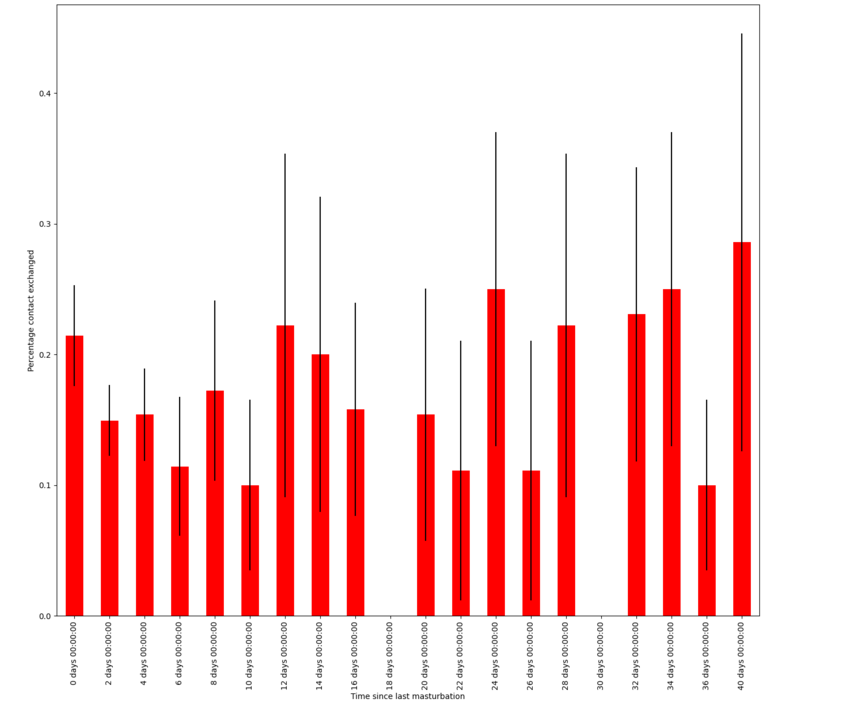
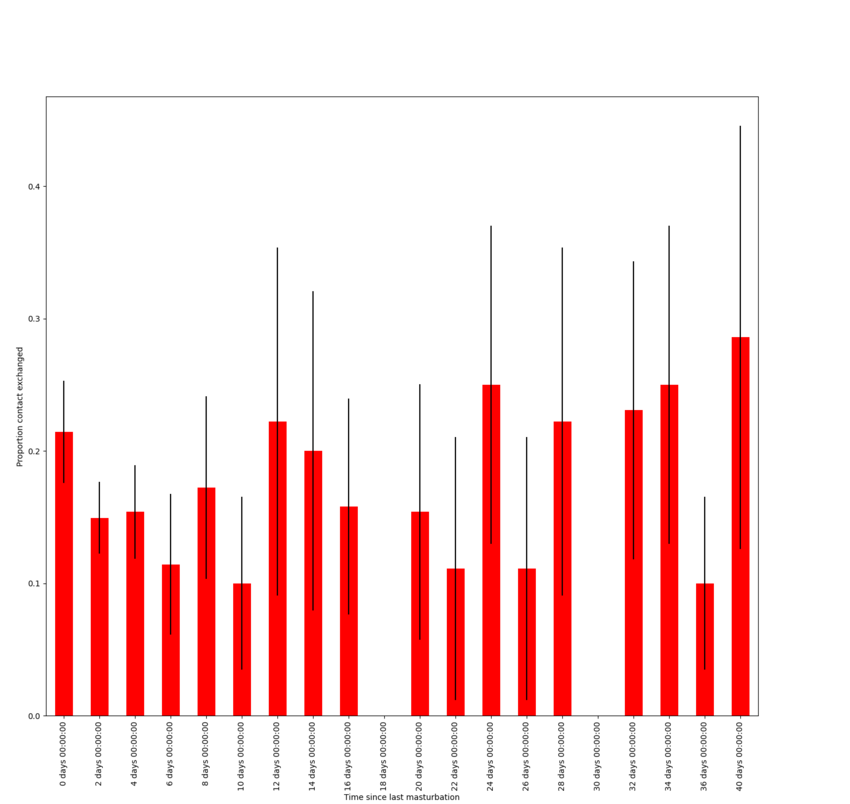
Note on vascular tension and attractiveness, better squiggle dg model.

diff --git a/code/vascular/analysis.py b/code/vascular/analysis.py
@@ -1,0 +1,42 @@
+import pandas as pd
+import numpy as np
+import matplotlib.pyplot as plt
+
+def get_meditations():
+        meditations=pd.read_csv('../../data/meditations.csv')
+        meditations['meditation_start']=pd.to_datetime(meditations['meditation_start'], utc=True, format='mixed')
+        meditations['meditation_end']=pd.to_datetime(meditations['meditation_end'], utc=True, format='mixed')
+
+        return meditations
+
+hourseconds=60*60
+rounder=hourseconds
+timeframe=7 #days
+
+approaches=pd.read_csv('../../data/daygame_approaches.csv')
+approaches['Datetime']=pd.to_datetime(approaches['Datetime'], utc=True).dt.tz_convert('CET')
+
+meditations=get_meditations()
+
+# I feel like this should be doable with merge_asof, but it doesn't look like it?
+merged=pd.merge(meditations, approaches, how='cross')
+merged['diff']=merged['Datetime']-merged['meditation_end']
+merged=merged.loc[(merged['diff']<=pd.Timedelta(timeframe, 'd')) & (merged['diff']>=pd.Timedelta(0, 's'))]
+
+summed=merged[['Approach', 'meditation_duration']].groupby('Approach').sum()
+
+both=pd.merge(approaches, summed, on='Approach')
+both['Rounded']=(both['meditation_duration']/(rounder)).round()
+both['Contactind']=both['Contact'].notna()
+
+result=both[['Rounded', 'Contactind']].groupby('Rounded').agg(['mean', 'size'])
+
+def betavar(group):
+	a=group.sum()
+	b=(~group).sum()
+	return np.sqrt((a*b)/((a+b)**2*(a+b+1)))
+
+result['std']=both[['Rounded', 'Contactind']].groupby('Rounded').agg(betavar).rename(columns={'Contactind': 'std'})
+result['Contactind']['mean'].plot.bar(yerr=result['std'], rot=90, figsize=(11, 9),
+        xlabel='Hours of meditation in the last week', ylabel='Proportion contact exchanged', color='red')
+plt.savefig('errorbars.png')

diff --git a/code/masturbation_and_attractiveness/observational.py b/code/masturbation_and_attractiveness/observational.py
@@ -33,5 +33,5 @@ result['std']=both[['Rounded', 'Contactind']].groupby('Rounded').agg(betavar).re
 
 #TODO: add sample size, also x-axis is slightly artefacted
 result['Contactind']['mean'].plot.bar(yerr=result['std'], rot=90, figsize=(16, 14),
-	xlabel='Time since last masturbation', ylabel='Percentage contact exchanged', color='red')
+	xlabel='Time since last masturbation', ylabel='Proportion contact exchanged', color='red')
 plt.savefig('errorbars.png')

diff --git a/notes_on_pickup.md b/notes_on_pickup.md
@@ -373,11 +373,10 @@ a difference to my momentum. More work than psychedelics, but
 [safer](./reports.html#Possible_Erectile_Dysfunction_from_an_LSD_Trip),
 and possibly deeper.
 
-It seems worth noting that I didn't see a difference in the success of
-my approaches (in terms of objective results like bringing a chick out
-on a date, or fucking her), so take all of this with a grain of salt.
-
-<!--TODO: analyse meditation & pickup success data-->
+It seems worth noting that I [didn't see a
+difference](#Vascular_Tension_and_Attractiveness) in the success of my
+approaches (in terms of objective results like bringing a chick out on
+a date, or fucking her), so take all of this with a grain of salt.
 
 <!--
 If You Want To Fuck Hot Chicks, You Have To Approach Them
@@ -514,3 +513,86 @@ ones by [Nash](http://www.daysofgame.com/).
 * [Why a guy should never marry, as described by women (2017)](https://theredquest.wordpress.com/2017/10/26/why-you-should-never-marry-as-described-by-women/)
 * [Skin in the game, marriage, The Red Pill (2018)](https://theredquest.wordpress.com/2018/03/30/skin-in-the-game-marriage-the-red-pill/)
 * [“Why Happy Couples Cheat” from Esther Perel (2017)](https://theredquest.wordpress.com/2017/05/08/why-happy-couples-cheat-from-esther-perel/)
+
+Vascular Tension and Attractiveness
+------------------------------------
+
+Men like to create theories on what they should do in order to become
+attractive to women. One of those theories is that muscular tension
+is *unattractive*: It indicates that a man is hiding his intentions,
+trying to evade from hostile telepaths (because he believes that, if his
+intentions were known, he'd be shunned).<!--TODO: link to Chris Lakins
+writing on this, and the hostile telepaths stuff-->
+
+I think I can look into a related hypothesis, namely whether *meditation*
+increases success from cold approaching women. The hypothesis is that
+meditation decreases muscular tension, thus indicating that the approacher
+doesn't have anything to hide, especially not his desire.
+
+Given my [meditation data](./data.html#Meditation) (~2.7k meditation
+sessions) and my [daygame approach data](./data.html#Daygame) (~650
+approaches), I can select the meditations that occurred in the week
+before an approach
+
+        merged=pd.merge(meditations, approaches, how='cross')
+        merged['diff']=merged['Datetime']-merged['meditation_end']
+        merged=merged.loc[(merged['diff']<=pd.Timedelta(timeframe, 'd')) & (merged['diff']>=pd.Timedelta(0, 's'))]
+
+sum up the amount of meditation done in that week
+
+        summed=merged[['Approach', 'meditation_duration']].groupby('Approach').sum()
+
+and round the amount of meditation done to the nearest hour, calculating
+whether the approach resulted in me getting some kind of contact
+information from the woman:
+
+        both=pd.merge(approaches, summed, on='Approach')
+        both['Rounded']=(both['meditation_duration']/(rounder)).round()
+        both['Contactind']=both['Contact'].notna()
+
+The result is then a dataframe indexed by the number of hours meditated,
+with the expected number of times of getting a contact information,
+plus the sample size:
+
+        result=both[['Rounded', 'Contactind']].groupby('Rounded').agg(['mean', 'size'])
+
+(Throw in some
+[beta-distributed](https://en.wikipedia.org/wiki/Beta-distribution)
+error bars, [code here](./code/vascular/analysis.py).)
+
+Plotting the results:
+
+![](./img/vascular/errorbars.png)
+
+The resulting DataFrame is:
+
+        >>> result
+                Contactind            std
+                      mean size
+        Rounded
+        0.0       0.250000   28  0.080408
+        1.0       0.136364   44  0.051157
+        2.0       0.151515   33  0.061491
+        3.0       0.112245   98  0.031726
+        4.0       0.357143   14  0.123718
+        5.0       0.200000   15  0.100000
+        6.0       0.146667   75  0.040581
+        7.0       0.315789   19  0.103939
+        8.0       0.000000    8  0.000000
+        9.0       0.200000   30  0.071842
+        10.0      0.157895   38  0.058389
+        11.0      0.179487   39  0.060678
+        12.0      0.189655   58  0.051038
+        13.0      0.130435   92  0.034923
+        14.0      0.181818   11  0.111340
+        21.0      0.000000    1  0.000000
+        22.0      0.333333    3  0.235702
+        23.0      0.000000    3  0.000000
+        29.0      0.500000    2  0.288675
+        37.0      0.000000    3  0.000000
+
+I'll basically ignore anything north of 14 hours, because the sample
+sizes are just too damn small. If I do that, then I don't immediately
+*see* any clear pattern. It's not like meditating a bunch (~2h/day)
+causes more women to give me their contact information, and if anything
+the opposite seems to be the case.

diff --git a/changelog.md b/changelog.md
@@ -28,6 +28,7 @@ February 2025
 
 * [Forager Society is a Disease of the Flesh, Industrial Society is a Disease of the Soul](./notes.html#Forager_Society_is_a_Disease_of_the_Flesh_Industrial_Society_is_a_Disease_of_the_Soul)
 * [Least Likely Completions for Language Models](./notes.html#Least_Likely_Completions_for_Language_Models)
+* [Vascular Tension and Attractiveness](./notes_on_pickup.html#Vascular_Tension_and_Attractiveness): Does meditating make one more attractive? Probably not.
 * [Analysis of Observational Data](./masturbation_and_attractiveness.html#Appendix_D_Analysis_of_Observational_Data) on whether abstaining from masturbation makes one more attractive. Result: probably not.
 * Updated [Does Recent Masturbation Decrease Meditation Quality?](./quality.html) with improved analysis & data, result: Abstaining from masturbation probably makes meditation worse.
 * [Daygame Data Makeover](./data.html#Daygame)
@@ -37,6 +38,10 @@ February 2025
 * [Lemurs and the True Human Form (Gwenn, 2020)](https://web.archive.org/web/20221230045903/https://everythingtosaveit.how/lemurs-and-the-true-human-form/)
 * [Expiring laws to stop legal rot (Sam Harsimony, 2024)](https://splittinginfinity.substack.com/p/expiring-laws-to-stop-legal-rot)
 * [Passive measures for lazy self-experimenters (troof, 2022)](https://troof.blog/posts/passive-measures/)
+* Some cool short Wikipedia articles:
+	* [Blum–Shub–Smale machine (English Wikipedia)](https://en.wikipedia.org/wiki/Blum-Shub-Smale_machine) for [Real computation (English Wikipedia)](https://en.wikipedia.org/wiki/Real_computation)
+	* [Ropelength (English Wikipedia)](https://en.wikipedia.org/wiki/Ropelength)
+	* [Vibratese (English Wikipedia)](https://en.wikipedia.org/wiki/Vibratese)
 
 January 2025
 -------------

diff --git a/texts_list.md b/texts_list.md
@@ -17,6 +17,7 @@ comments or tweets, because that would be too extensive.
 A '\*' prefix signifies I'm still reading the
 text, a '|123' prefix shows I abandoned reading the text at page 123.
 
+* [Superradiant laser (English Wikipedia, 2023)](https://en.wikipedia.org/wiki/Superradiant_laser)
 * [Absolutely Nobody (English Wikipedia, 2023)](https://en.wikipedia.org/wiki/Absolutely_Nobody)
 * [Vibratese (English Wikipedia, 2023)](https://en.wikipedia.org/wiki/Vibratese)
 * [Auction cancellation hunter (English Wikipedia, 2023)](https://en.wikipedia.org/wiki/Auction_cancellation_hunter)

diff --git a/grand.md b/grand.md
@@ -639,3 +639,10 @@ through. Another option would be to have a translucent object of mass
 Additional thought: Wouldn't the intergalactic medium and/or dust
 scatter a bunch of the light? Could one clear out the path of the light
 sufficiently for this not to be a problem?
+
+#### 15.5.5
+
+> However, besides being unpredictable it need to be private and
+non-replayable
+
+Typo, should be "needs".

diff --git a/notes.md b/notes.md
@@ -1,7 +1,7 @@
 [home](./index.md)
 -------------------
 
-*author: niplav, created: 2019-05-22, modified: 2025-02-19, language: english, status: in progress, importance: 3, confidence: other*
+*author: niplav, created: 2019-05-22, modified: 2025-02-21, language: english, status: in progress, importance: 3, confidence: other*
 
 > __Short texts on different topics.__
 
